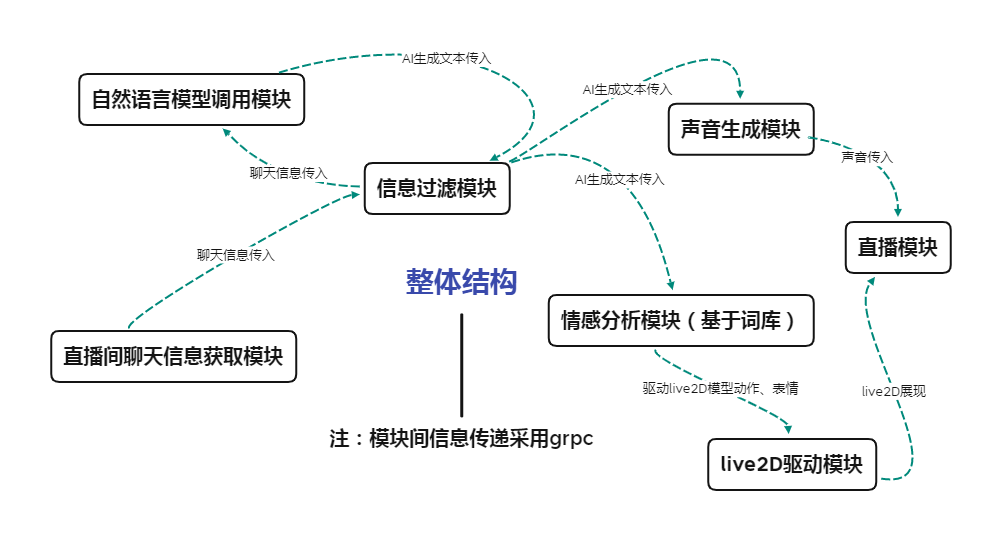
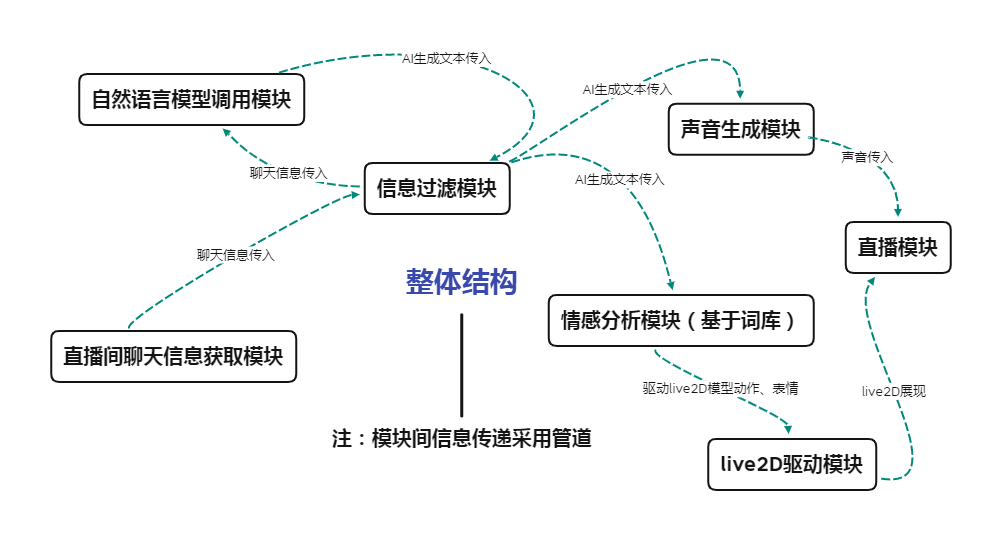
create message
创建消息传输层

Changed region(s): [[0.3097, 0.7704, 0.5884, 0.8296]]

diff --git a/CHAT/bilichat/service/monitor.go b/CHAT/bilichat/service/monitor.go
@@ -2,13 +2,11 @@ package service
 
 import (
 	config2 "GoTuber/CHAT/config"
+	"GoTuber/MESSAGE"
+	"GoTuber/MESSAGE/model"
 	"log"
 	"sync"
 	"time"
-)
-
-const (
-	danMuMsgBufCap = 256
 )
 
 type Monitor struct {
@@ -40,7 +38,13 @@ func work(chat *ChatServer, group *sync.WaitGroup) {
 		}
 		switch m := msg.(type) {
 		case *DanMuMessage:
-			log.Println(m)
+			chat := model.Chat{
+				TimeStamp: m.Timestamp,
+				ChatName:  m.Uname,
+				Price:     0,
+				Message:   m.Text,
+			}
+			MESSAGE.ChatToFilter <- chat
 			//case *SuperChatMessage:
 			//
 			//case *GiftMessage:
@@ -69,7 +73,6 @@ func (m *Monitor) Start() {
 }
 
 func (m *Monitor) Stop() {
-	log.Println("程序退出...")
 	for _, c := range m.servers {
 		c.Disconnect()
 	}

diff --git a/MESSAGE/model/chat.go b/MESSAGE/model/chat.go
@@ -1,14 +1,10 @@
 package model
 
-// Chat 弹幕消息结构体
+// Chat 弹幕（聊天）消息结构体
 type Chat struct {
 	TimeStamp int64   //弹幕读取到的时间
 	ChatName  string  //弹幕发送者名称
-	message   string  //弹幕内容
+	Message   string  //弹幕内容
 	Price     float32 //sc
-}
-
-type Room struct {
-	RoomID     int //房间号
-	RealRoomID int //真的房间号
+	Uid       int     //B站用户uid，不知道油管有没有
 }

diff --git a/CHAT/cmd.go b/CHAT/cmd.go
@@ -1,11 +1,13 @@
-package CHAT
+package main
 
 import (
 	"GoTuber/CHAT/bilichat"
 	config2 "GoTuber/CHAT/config"
+	"GoTuber/MESSAGE"
 )
 
-func InitChatMoudle() {
+func main() {
+	go MESSAGE.GetMessage()
 	config2.InitCHATConfig()
 	if config2.ChatCfg.Select.Bilibili {
 		bilichat.InitBiliChat()

diff --git a/MESSAGE/channel.go b/MESSAGE/channel.go
@@ -1,0 +1,17 @@
+package MESSAGE
+
+import (
+	"GoTuber/MESSAGE/model"
+	"log"
+)
+
+var ChatToFilter = make(chan model.Chat, 2) //要是出问题了就改大，但是应该没问题了
+
+func GetMessage() {
+	for {
+		select {
+		case msg := <-ChatToFilter:
+			log.Println(msg)
+		}
+	}
+}

diff --git a/CHAT/bilichat/service/constant.go b/CHAT/bilichat/service/constant.go
@@ -13,7 +13,7 @@ const (
 	opHeartbeat      = 2 //发送心跳包
 	opHeartbeatReply = 3 //服务端回应心跳包
 	opMessage        = 5 //弹幕消息等
-	opEnterRoom      = 7 //进入直播间
+	opEnterRoom      = 7 //认证包
 	opEnterRoomReply = 8 //进入直播间成功
 )
 

diff --git a/CHAT/bilichat/service/util.go b/CHAT/bilichat/service/util.go
@@ -4,8 +4,9 @@ import (
 	"bytes"
 	"compress/zlib"
 	"encoding/binary"
-	"github.com/andybalholm/brotli"
 	"io"
+
+	"github.com/andybalholm/brotli"
 )
 
 // 数据解包，分离出头部的信息和数据体，lens为数据包长度，ver为数据类型，op为操作码

diff --git a/CHAT/bilichat/service/get_room_info.go b/CHAT/bilichat/service/get_room_info.go
@@ -1,6 +1,7 @@
 package service
 
 import (
+	"GoTuber/CHAT/model"
 	"bytes"
 	"compress/flate"
 	"compress/gzip"
@@ -9,8 +10,6 @@ import (
 	"io"
 	"net/http"
 	"strconv"
-
-	"GoTuber/CHAT/bilichat/model"
 
 	"github.com/andybalholm/brotli"
 	"github.com/tidwall/gjson"

diff --git a/CHAT/bilichat/service/chat_server.go b/CHAT/bilichat/service/chat_server.go
@@ -1,6 +1,7 @@
 package service
 
 import (
+	"GoTuber/CHAT/model"
 	"encoding/json"
 	"fmt"
 	"log"
@@ -8,8 +9,6 @@ import (
 	"net/url"
 	"strconv"
 	"time"
-
-	"GoTuber/CHAT/bilichat/model"
 
 	"github.com/gorilla/websocket"
 	"github.com/pkg/errors"

diff --git a/CHAT/bilichat/service/msg.go b/CHAT/bilichat/service/msg.go
@@ -1,9 +1,10 @@
 package service
 
 import (
-	"github.com/tidwall/gjson"
 	"strings"
 	"time"
+
+	"github.com/tidwall/gjson"
 )
 
 type Message interface {

diff --git a/CHAT/model/model.go b/CHAT/model/model.go
@@ -1,0 +1,6 @@
+package model
+
+type Room struct {
+	RoomID     int //房间号
+	RealRoomID int //真的房间号
+}

diff --git a/MESSAGE/message.go b/MESSAGE/message.go
@@ -1,0 +1,2 @@
+// Package MESSAGE 消息传递模块
+package MESSAGE

diff --git a/MESSAGE/filter_and_select/filter.go b/MESSAGE/filter_and_select/filter.go
@@ -1,0 +1,1 @@
+package filter_and_select
